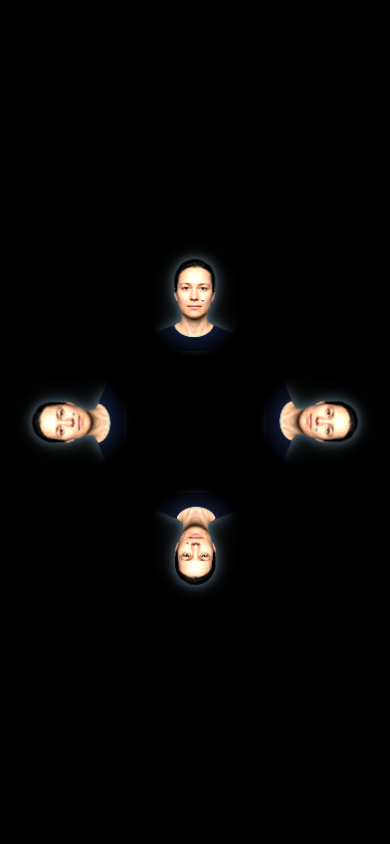
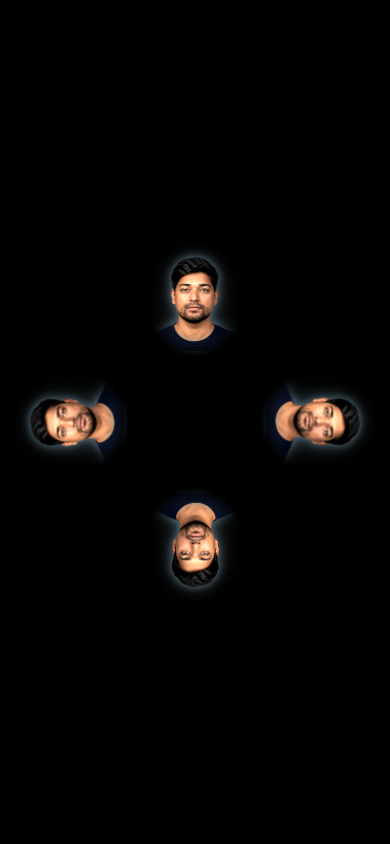
Use an AI-generated portrait of Prat as the stand-in face
Prat chose his own AI-generated likeness as the test and demo face. The four ghost
screenshots were retaken with scripts/ghost-smoke.cjs (the face engine reached
"Portrait ready"), and the provenance note says what the image is and that it is
published with his consent. Backend: 123 passed.

Claude-Session: https://claude.ai/code/session_01YXoXV3pUfjxaqqkNBn9zAu

diff --git a/docs/ghost/README.md b/docs/ghost/README.md
@@ -50,6 +50,6 @@ The portrait itself needs no API. Conversation uses the existing API configurati
 
 ## Stand-in provenance
 
-`stand-in.jpg` is a synthetic, AI-generated portrait of a person who does not exist, made for testing. It replaced an earlier public-domain photo of a real person on Oct 11, 2026; `normal.png`, `mirrored.png`, `pyramid.png` and `phone-pyramid.png` were retaken with it, and the three main-stage screenshots taken with the old photo were removed.
+`stand-in.jpg` is an AI-generated portrait of Prat (the project's author), made for testing and published with his consent. It is not a photograph. On Oct 11, 2026 it replaced an earlier public-domain photo of a real public figure; `normal.png`, `mirrored.png`, `pyramid.png` and `phone-pyramid.png` were retaken with it, and the three main-stage screenshots taken with the old photo were removed.
 
 All screenshots use this stand-in in a fresh browser context. Private portrait requests were blocked (or fulfilled with this same stand-in for the handoff test). The user's selfie was not used.
